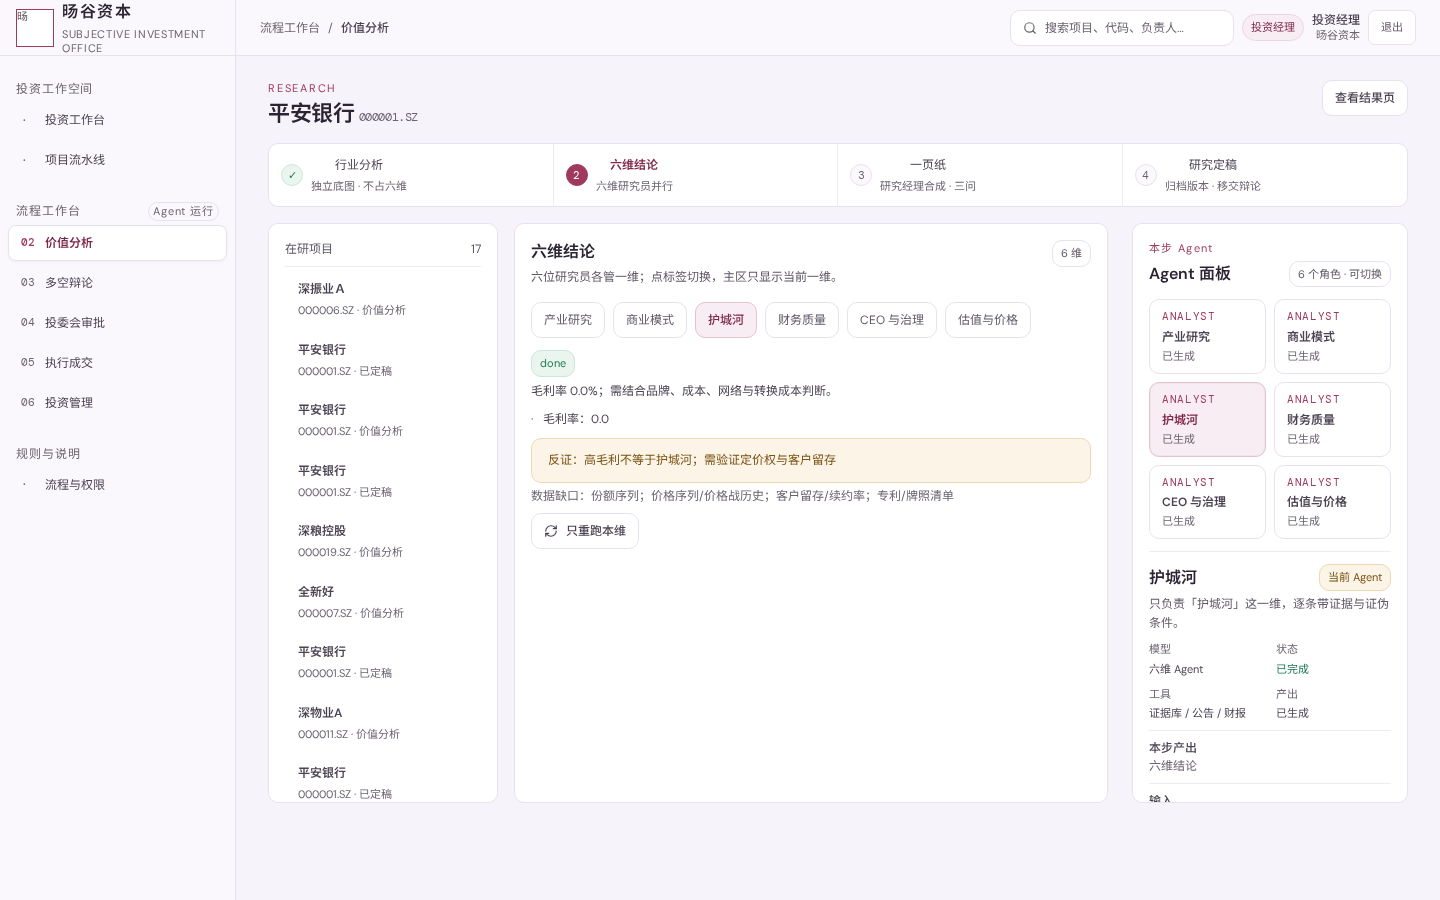
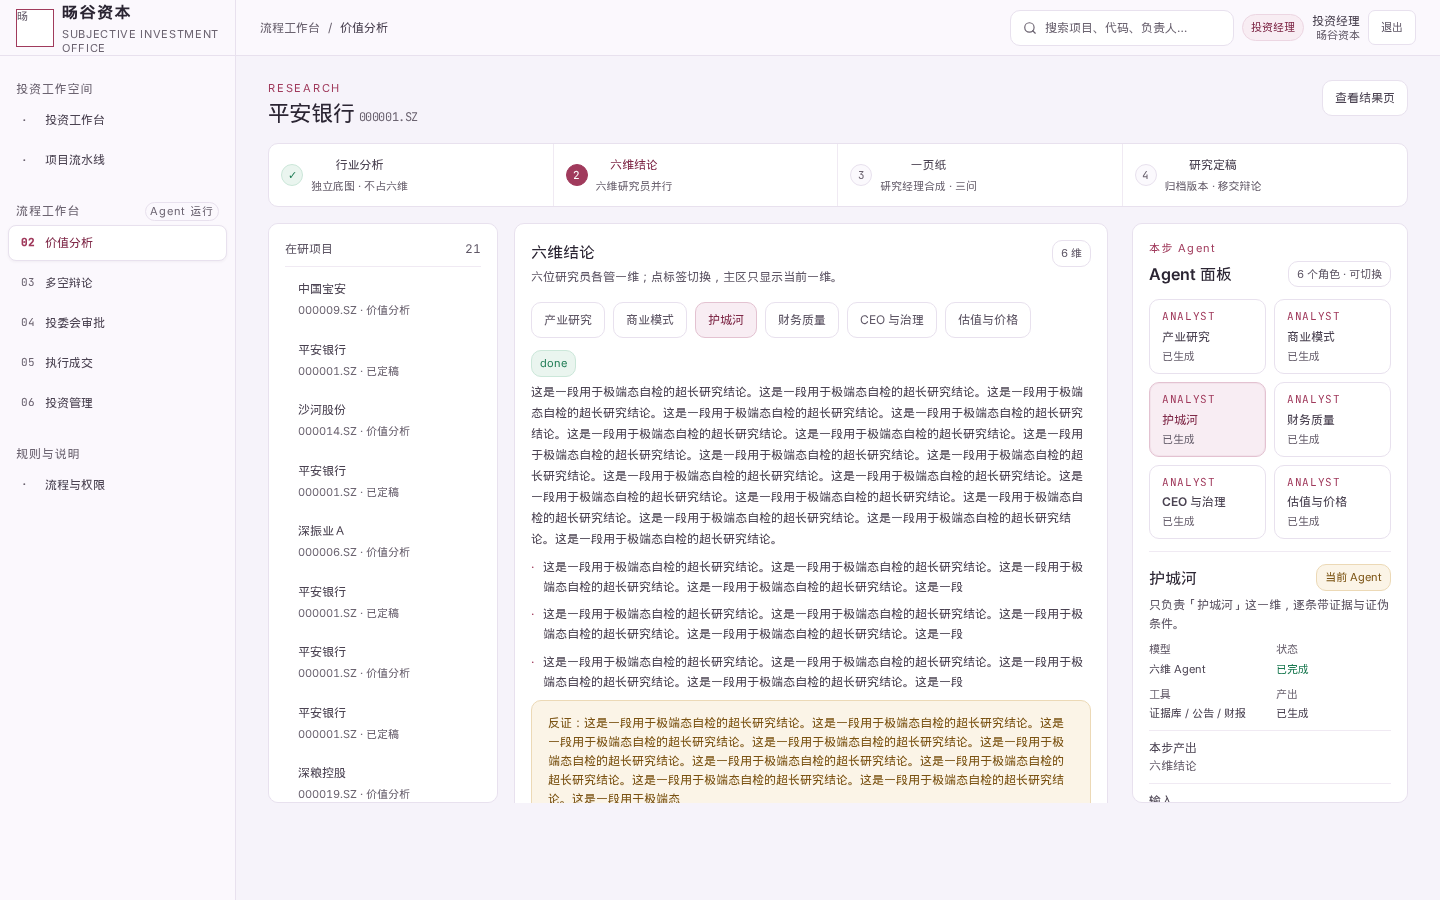
fix(inst): 还原机构端原有字体
- 移除 v3 的 DM Sans/DM Mono 覆盖与额外 Google Fonts
- 恢复正文 Inter、标题 DM Sans、数字 JetBrains Mono
- 同步更新三档及极端态截图

diff --git a/frontend/src/pages/institution/v3/v3.css b/frontend/src/pages/institution/v3/v3.css
@@ -584,18 +584,3 @@
 .inst-v3 .v3-agent-detail .ad-v { margin-top: 4px !important; }
 .inst-v3 .v3-agent-context { margin-top: 4px !important; }
 .inst-v3 .v3-rail-cell .ct small { margin-left: 4px !important; }
-
-/* 生产版字体：与原型 HTML 一致（DM Sans / DM Mono + 中文回退） */
-.inst-v3 {
-  --font-sans: "DM Sans", "Inter", "Segoe UI", "Noto Sans SC", "PingFang SC", "Microsoft YaHei UI", "Microsoft YaHei", sans-serif;
-  --font-display: "DM Sans", "Inter", "Segoe UI", "Noto Sans SC", "PingFang SC", "Microsoft YaHei UI", "Microsoft YaHei", sans-serif;
-  --font-mono: "DM Mono", "SFMono-Regular", "JetBrains Mono", "Roboto Mono", Consolas, monospace;
-  font-family: var(--font-sans);
-  font-synthesis: none;
-}
-.inst-v3 button,
-.inst-v3 input,
-.inst-v3 select,
-.inst-v3 textarea { font-family: var(--font-sans); }
-.inst-v3 .font-mono,
-.inst-v3 [class*="font-mono"] { font-family: var(--font-mono); }

diff --git a/frontend/index.html b/frontend/index.html
@@ -8,7 +8,7 @@
     <link rel="preconnect" href="https://fonts.googleapis.com" />
     <link rel="preconnect" href="https://fonts.gstatic.com" crossorigin />
     <link
-      href="https://fonts.googleapis.com/css2?family=DM+Sans:ital,opsz,wght@0,9..40,400;0,9..40,500;0,9..40,600;0,9..40,700;1,9..40,400&family=Inter:wght@400;500;600;700;800&family=JetBrains+Mono:wght@400;500&family=DM+Mono:wght@400;500&family=Noto+Sans+SC:wght@400;500;600&display=swap"
+      href="https://fonts.googleapis.com/css2?family=DM+Sans:ital,opsz,wght@0,9..40,400;0,9..40,500;0,9..40,600;0,9..40,700;1,9..40,400&family=Inter:wght@400;500;600;700;800&family=JetBrains+Mono:wght@400;500&display=swap"
       rel="stylesheet"
     />
     <title>SVQuant · 因子研究</title>

diff --git a/docs/功能包/FEAT-034-机构端首版闭环/README.md b/docs/功能包/FEAT-034-机构端首版闭环/README.md
@@ -741,7 +741,7 @@ INST_E2E_ALLOW_WRITE=1 INST_E2E_EXPECT_DB=svquant_test \
 ### 11.36 机构端生产版 UI 收口（2026-11-09）
 
 - **生产版标识**：移除顶栏 v3 标识、侧栏演示环境说明与静态数量、原型/角色切换说明；业务版本号只保留接口返回的研究/议案版本。
-- **字体**：切换为原型 HTML 的 `DM Sans / DM Mono`（中文回退 Noto Sans SC / PingFang SC），数字全站 `tabular-nums`。
+- **字体**：按反馈保留原有字体：正文 `Inter`、标题 `DM Sans`、数字 `JetBrains Mono`；数字全站 `tabular-nums`。
 - **估值复核**：字段标签与内容全部中文化，隐藏 `is_demo`、内部 error 与原始 JSON；净债务桥/关键假设/每股价值/企业价值等按可读格式展示，并清理演示口径文案。
 - **交叉质询**：按 claim 分组显示对应论点，核验状态翻译为已核验/部分核验/未核验/证据不足/证据矛盾，并显示证据编号与问题说明。
 - **页面标题**：除首页外移除大标题下的解释性小字。

diff --git a/docs/测试设计/evidence/inst-ui-production-20261109/README.md b/docs/测试设计/evidence/inst-ui-production-20261109/README.md
@@ -47,7 +47,7 @@
 
 ### 5. 本轮内容修复
 
-- [x] 字体切换为原型 HTML 的 `DM Sans / DM Mono`（中文回退 Noto Sans SC / PingFang SC）。
+- [x] 按反馈保留原有字体：正文 `Inter`、标题 `DM Sans`、数字 `JetBrains Mono`。
 - [x] 估值复核字段全部中文标签：估值方法、每股价值、关键假设、股权/企业价值、净债务桥、口径说明；隐藏 `is_demo`、内部 error 与原始 JSON。
 - [x] 交叉质询按 claim 分组，显示中文状态（已核验/部分核验/未核验/证据不足/证据矛盾）、证据编号与问题说明。
 - [x] 除首页外，所有页面大标题下不再显示解释性小字。
